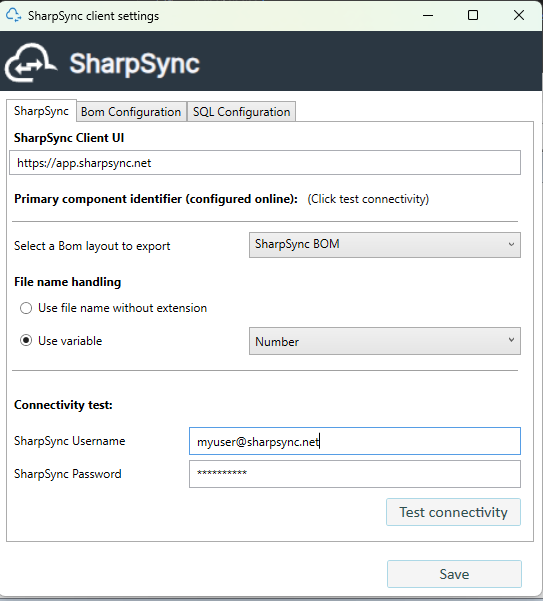
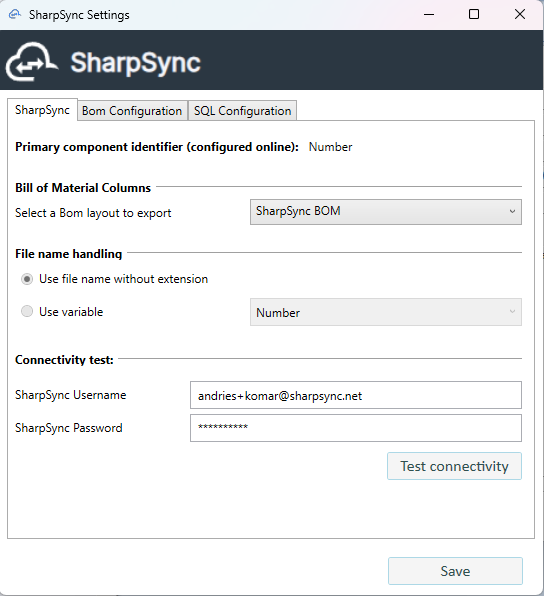
Added configuration screenshots and more information

diff --git a/datasources/swpdm/markdown/swxpdm-setup.md b/datasources/swpdm/markdown/swxpdm-setup.md
@@ -50,7 +50,10 @@ The PDM Client is only available for Windows machines. It is not available for M
 * Login on SharpSync
 * Navigate to the Downloads section
 * Download the PDM Client
+![alt text](../images/image.png)
+* If you're having trouble installing the addin through the client, you can download the Admin Export (*.cex) file
 * Extract all the files to a known location (e.g. Desktop)
+* [Install using the downloadable instructions link or follow along here]
 * Open the administration tool and login on the vault
 * Right click Addins > New Addin  
  ![New Addin](../images/new-addin.png)
@@ -66,16 +69,17 @@ When configuring the addin for the vault, there are 2 sections to configure:
 * The SQL setup which is used internally by the add-in
 
 ### General setup
-This image shows a screen of the setup 
+This image shows a landing screen of the setup.
 
 ![general setup](../images/configure-addin-general.png) 
 
 The following fields must be configured:
+
 |Name|Description|Recommended value|
 |--|--|--|
-|Sharpsync Client UI|This is the url to which the user will be redirected once a BOM has been successfully submitted for comparison|https://app.sharpsync.net|
-|BOM Layout|The BOM |BOM (or whatever layout you want to export to SharpSync)|
+|BOM Layout|The columns + values exported to SharpSync|BOM (or whatever layout you want to export to SharpSync)|
 |SharpSync Admin credentials|User credentials that are used to setup the datasource|-|
+|File name handling|How files will be named in the hierarchy. Can be either the name of the file or a variable (e.g. Number)|This is automatically configured in datasource configuration and cannot be changed in the add-in|
 
 Click `Test Connectivity`. Upon success, the configured primary identifier will be listed in the `Primary Identifier` field. This is the value that will be used to identify the file in SharpSync.
 
@@ -85,10 +89,36 @@ NOTE: If you get an error saying that no source is configured
 
 First go to SharpSync > Datasources (you must be an admin) > Add the PDM datasource > This will create a source in SharpSync which will be used to store the data.
 
+### BOM Configuration setup
+Setting up the BOM configuration allows you to customize how Bill of materials are uploaded to SharpSync.
+|Section|Option|Description|
+|---|---|--|
+|Bom export|As Built|Export the version of the bom and its associated references as at the version selected||
+|Bom export|Latest|Export the latest version of the bom and its associated references||
+|Weldments|Export a weldmentpart as a part|Exports the weldment with the same qty referenced in the original BOM. Does not add children items from weldment members|
+|Weldments|Export a weldmentpart as a part|Exports the weldment with the same qty referenced in the original BOM. *DOES* add children items|
+|Sheetmetal|Export a weldmentpart as a part|Exports the weldment with the same qty referenced in the original BOM. Does not add children items from multibody parts|
+|Sheetmetal|Export a weldmentpart as a part|Exports the weldment with the same qty referenced in the original BOM. *DOES* add children items|
+|Excluded file types|Add file types on new lines|If a linked reference is found in the PDM BOM, it is not exported to SharpSync|
+
+![alt text](../images/configure-addin-bom-export.png)
+
 ### SQL setup
 The sql configuration page requires `data_reader` access for SQL Server. 
 
 This image shows a screen of the setup ![sql setup](../images/configure-addin-sql.png)
+
+Setting up the BOM configuration allows you to customize how Bill of materials are uploaded to SharpSync.
+|Section|Option|Description|
+|---|---|--|
+|SQL Connectivity|Hostname\instance|Enter the name of the server and the sql instance. Use \MSSQL if the instance is not named|
+|SQL Connectivity|Database name|Enter the name of the database. Typically the same as the vault name. Consult your IT Admin if you don't have access|
+|SQL Credentials|PDM SQL Username|Name of a user which has the ability to create and execute stored procedures. This helps with the determination of weldment part types / sheetmetal part types|
+|SQL Credentials|PDM SQL Password|Password of a user which has the ability to create and execute stored procedures. This helps with the determination of weldment part types / sheetmetal part types|
+
+Note: The connection details are not stored in SharpSync online services. The credentials are stored in a vault dictionary called SharpSync using the PDM API. You can search for it using Vault > Tables > Dictionaries > SharpSync
+
+ 
 
 ## Step: Configure the PDM client for the logged in user
 

diff --git a/datasources/odoo/readme.md b/datasources/odoo/readme.md
@@ -2,6 +2,14 @@
 
 <em>This document is a work in progress</em>
 
+## Limitations at the time of writing
+
+SharpSync supports 
+* Odoo version 17
+* Odoo version 16 (in progress)
+Should you require access to a different version please make contact with us at [SharpSync](https://sharpsync.net/about/)
+
+
 Odoo is an open source ERP available in a selfhosted or cloud hosted option. Please also see [https://www.odoo.com/](https://www.odoo.com) and [hosting options](markdown/hosting-options.md)
 
 To configure an Odoo intance you need 4 things
@@ -30,12 +38,7 @@ The update should automatically trigger. If it does not, click the *Update* butt
 The custom fields from Odoo has now succesfully been pulled into SharpSync.
 
 <span style='color:orange'>Take note!:</span> If you ever add new properties to Odoo, make sure to come back to the property mapping page and click the *Update* button again.
-
-## Limitations at the time of writing
-
-SharpSync supports (but we can add upon request)
-* Odoo version 17
-
+ 
 
 SharpSync requires the MRP module (mrp) at a minimum in order to support an Odoo integration.
 This is because BOM information, more specifically the Quantities of individual items.
